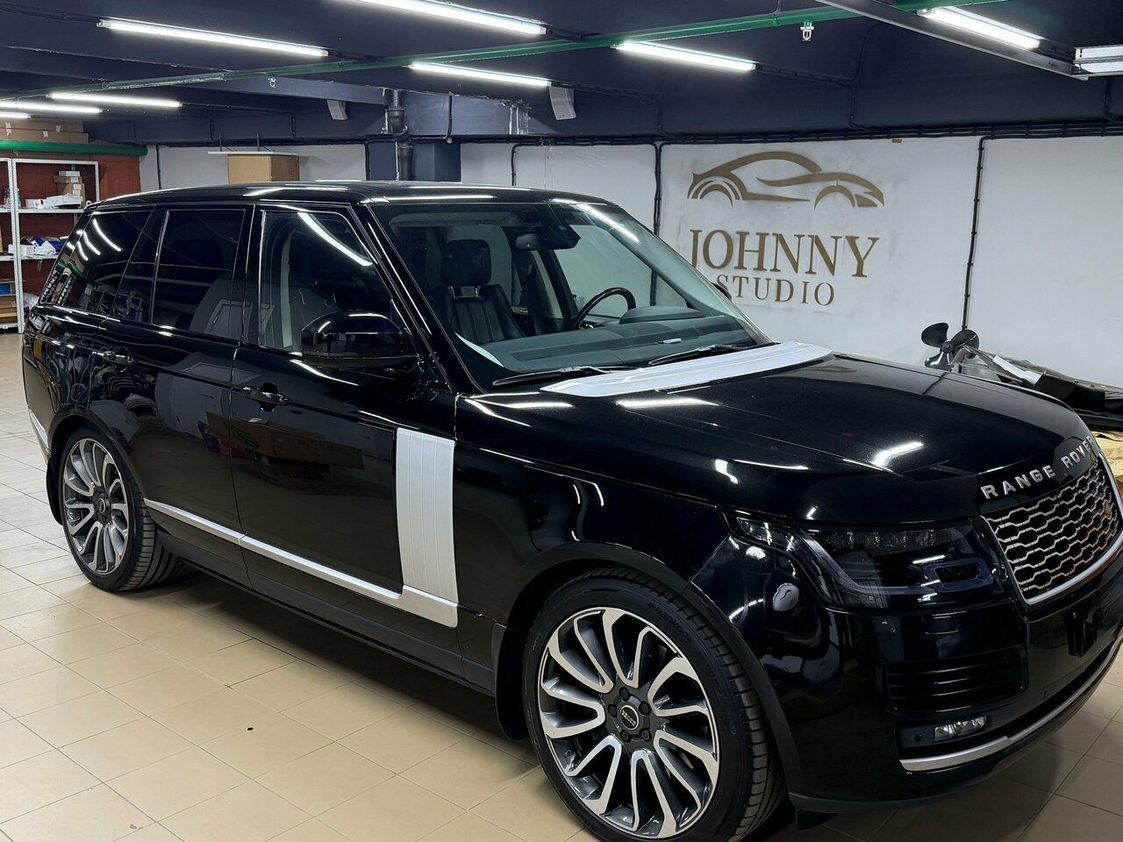
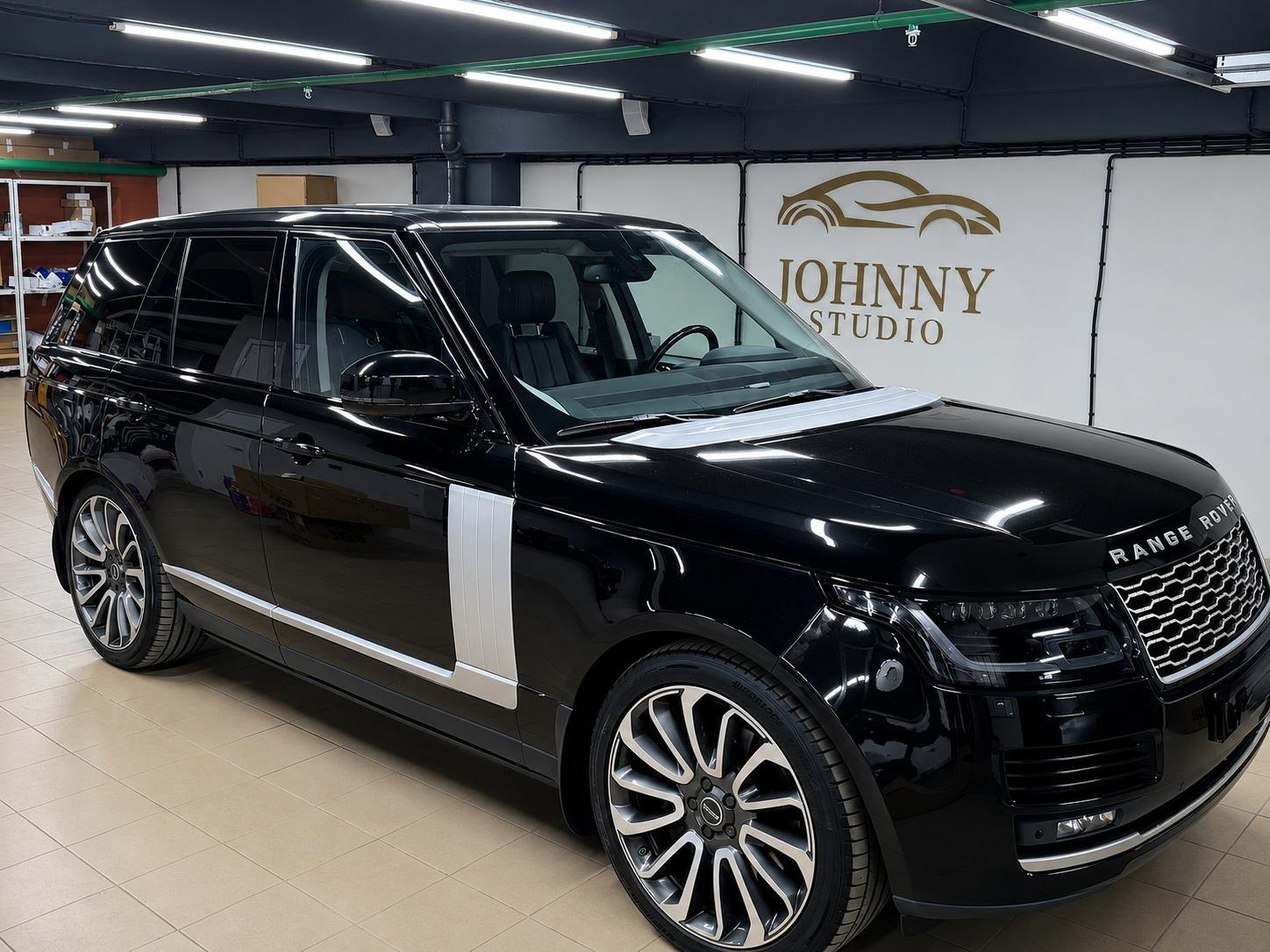
Правки Джони: блок марок под премиум, раздел-переход на сайт детейлинга, новое фото на первом экране

diff --git a/index.html b/index.html
@@ -11,13 +11,13 @@
 <meta property="og:type" content="website">
 <meta property="og:title" content="Johnny Studio: Range Rover и Land Rover знаем наизусть">
 <meta property="og:description" content="Фары, рестайлинг, оклейка, антихром и тонировка. Москва, Тюменский проезд. 5,0 на Яндекс Картах, 72 оценки.">
-<meta property="og:image" content="https://johnny-studio.github.io/img/hero.jpg">
+<meta property="og:image" content="https://johnny-studio.github.io/img/hero.jpg?v=2">
 <meta property="og:url" content="https://johnny-studio.github.io/">
-<link rel="preload" href="img/hero.jpg" as="image">
+<link rel="preload" href="img/hero.jpg?v=2" as="image">
 <link rel="preload" href="fonts/inter-cyrillic.woff2" as="font" type="font/woff2" crossorigin>
 <!-- SEO: карточка студии и вопросы для поиска. Цены тут только точные, с Яндекс Карт -->
 <script type="application/ld+json">
-{"@context":"https://schema.org","@type":"AutoRepair","name":"Johnny Studio","alternateName":"Джони студио","url":"https://johnny-studio.github.io/","image":"https://johnny-studio.github.io/img/hero.jpg","logo":"https://johnny-studio.github.io/img/logo.jpg","telephone":"+7 962 363-42-12","priceRange":"6 000–280 000 ₽",
+{"@context":"https://schema.org","@type":"AutoRepair","name":"Johnny Studio","alternateName":"Джони студио","url":"https://johnny-studio.github.io/","image":"https://johnny-studio.github.io/img/hero.jpg?v=2","logo":"https://johnny-studio.github.io/img/logo.jpg","telephone":"+7 962 363-42-12","priceRange":"6 000–280 000 ₽",
 "address":{"@type":"PostalAddress","streetAddress":"Тюменский проезд, 5, стр. 2","addressLocality":"Москва","addressCountry":"RU"},
 "geo":{"@type":"GeoCoordinates","latitude":55.80955,"longitude":37.740983},
 "openingHoursSpecification":{"@type":"OpeningHoursSpecification","dayOfWeek":["Monday","Tuesday","Wednesday","Thursday","Friday","Saturday","Sunday"],"opens":"10:00","closes":"20:00"},
@@ -31,7 +31,7 @@
 </script>
 <script type="application/ld+json">
 {"@context":"https://schema.org","@type":"FAQPage","mainEntity":[
- {"@type":"Question","name":"Вы работаете только с Range Rover?","acceptedAnswer":{"@type":"Answer","text":"Нет, с любыми марками: Skoda, Volkswagen, BMW, Volvo, Chevrolet и другими. Land Rover знаем особенно хорошо, для них много доработок."}},
+ {"@type":"Question","name":"Вы работаете только с Range Rover?","acceptedAnswer":{"@type":"Answer","text":"Профильно с Range Rover и Land Rover, для них много доработок. Работаем и с другими премиальными машинами: Jaguar, Mini, BMW, Lexus, Porsche, Audi. Детейлинг для любых марок на нашем втором сайте."}},
  {"@type":"Question","name":"Сколько стоит?","acceptedAnswer":{"@type":"Answer","text":"Установка фар на Range Rover L494 и L405 от 6 000 ₽, оклейка зон риска от 60 000 ₽, полная оклейка в цветной полиуретан от 280 000 ₽. Точную цену называем до начала работ."}},
  {"@type":"Question","name":"Сколько времени занимает работа?","acceptedAnswer":{"@type":"Answer","text":"Вмятины часто убираем день в день, полная оклейка занимает от 5 до 10 дней. Срок по остальным работам скажем при записи."}},
  {"@type":"Question","name":"Как можно оплатить?","acceptedAnswer":{"@type":"Answer","text":"Переводом, по QR-коду, картой или наличными."}},
@@ -131,7 +131,7 @@ nav .btn{height:44px;padding:0 20px;font-size:11.5px}
 .hero .r:after{content:"";position:absolute;inset:0;pointer-events:none;background:linear-gradient(90deg,rgba(11,11,12,.6),transparent 24%),linear-gradient(0deg,rgba(11,11,12,.65),transparent 32%)}
 .hero .cap{position:absolute;z-index:2;right:28px;bottom:26px;font:600 11px/1 var(--body);letter-spacing:.3em;text-transform:uppercase;color:rgba(255,255,255,.72)}
 /* ЭФФЕКТ ФАР: фара дважды моргает, потом по фото проходит луч. Только transform и opacity */
-.hl{position:absolute;left:76%;top:65%;width:36%;aspect-ratio:2/1;transform:translate(-50%,-50%) scale(.85);opacity:0;mix-blend-mode:screen;pointer-events:none;
+.hl{position:absolute;left:79%;top:66%;width:36%;aspect-ratio:2/1;transform:translate(-50%,-50%) scale(.85);opacity:0;mix-blend-mode:screen;pointer-events:none;
  background:radial-gradient(closest-side,rgba(255,252,245,.95),rgba(255,214,170,.5) 38%,rgba(var(--acc-rgb),.12) 62%,transparent 75%)}
 .hl:after{content:"";position:absolute;left:-60%;right:-60%;top:47%;height:6%;background:linear-gradient(90deg,transparent,rgba(255,240,225,.8) 45%,#fff 50%,rgba(255,240,225,.8) 55%,transparent)}
 .beam{position:absolute;top:-25%;bottom:-25%;left:0;width:34%;opacity:0;mix-blend-mode:screen;pointer-events:none;transform:translateX(-130%) skewX(-16deg);
@@ -152,6 +152,16 @@ nav .btn{height:44px;padding:0 20px;font-size:11.5px}
 .lr small{font:600 11px/1 var(--body);letter-spacing:.3em;text-transform:uppercase;color:var(--acc)}
 .lr h3{font:800 clamp(22px,2.2vw,32px)/1.02 var(--head);text-transform:uppercase;letter-spacing:-.02em;margin:16px 0 18px}
 .lr ul{list-style:none;display:grid;gap:8px;color:var(--tx2);font-size:15px}.lr li{display:flex;gap:10px}.lr li:before{content:"";width:6px;height:6px;margin-top:9px;flex-shrink:0;background:var(--acc)}
+/* ВТОРОЕ НАПРАВЛЕНИЕ: детейлинг */
+.dtl{display:grid;grid-template-columns:.9fr 1.1fr;gap:clamp(30px,5vw,80px);align-items:center;background:var(--bg2);border-block:1px solid var(--line)}
+.dtl p{margin:26px 0 34px;color:var(--tx2);max-width:460px}
+.dtl-g{display:grid;grid-template-columns:1.2fr 1fr;grid-template-rows:1fr 1fr;gap:10px;aspect-ratio:5/4}
+.dtl-g figure{position:relative;overflow:hidden;background:var(--bg3)}
+.dtl-g figure:first-child{grid-row:span 2}
+.dtl-g img{width:100%;height:100%;object-fit:cover;transition:transform 1.2s var(--ease)}
+.dtl-g:hover img{transform:scale(1.05)}
+.dtl-g figcaption{position:absolute;left:12px;bottom:12px;padding:8px 12px;background:rgba(11,11,12,.78);font:600 11px/1 var(--body);letter-spacing:.2em;text-transform:uppercase}
+@media(max-width:900px){.dtl{grid-template-columns:1fr}.dtl-g{aspect-ratio:4/3.6}}
 .oth{display:flex;flex-wrap:wrap;gap:10px;align-items:center;margin-top:30px}
 .oth b{font:600 12px/1 var(--body);letter-spacing:.2em;text-transform:uppercase;color:var(--mut);margin-right:8px}
 .oth span{border:1px solid var(--line);padding:10px 16px;font:600 12px/1 var(--body);letter-spacing:.12em;text-transform:uppercase;color:var(--tx2)}
@@ -423,7 +433,7 @@ html.lock{overflow:hidden}
 <body>
 <!-- 14. шапка -->
 <nav id="nav"><a href="#top" class="logo"><img src="img/logo.jpg" alt="" width="42" height="42">JOHNNY <span>STUDIO</span></a>
- <div class="links"><a href="#brands">Range Rover</a><a href="#services">Услуги и цены</a><a href="#works">Работы</a><a href="#reviews">Отзывы</a><a href="#contacts">Контакты</a></div>
+ <div class="links"><a href="#brands">Range Rover</a><a href="#services">Услуги и цены</a><a href="#works">Работы</a><a href="#reviews">Отзывы</a><a href="#detailing">Детейлинг</a><a href="#contacts">Контакты</a></div>
  <a class="btn a" href="#book" data-book>Записаться</a></nav>
 
 <!-- 15. первый экран: главное Range Rover и Land Rover -->
@@ -434,7 +444,7 @@ html.lock{overflow:hidden}
   <div class="cta fx"><a class="btn" href="#calc">Рассчитать цену</a><a class="btn o" href="#book" data-book>Записаться</a></div>
   <div class="facts fx"><div><b>5,0 <i>★</i></b><small>72 оценки на Картах</small></div><div><b>10–20</b><small>работаем</small></div><div><b>Тюменский пр.</b><small>5, стр. 2, парковка</small></div></div>
  </div>
- <div class="r"><div class="stage"><img src="img/hero.jpg" alt="Чёрный Range Rover в боксе Johnny Studio" width="1280" height="960" fetchpriority="high"><span class="hl" aria-hidden="true"></span></div><span class="beam" aria-hidden="true"></span><div class="cap">Range Rover в боксе студии</div></div>
+ <div class="r"><div class="stage"><img src="img/hero.jpg?v=2" alt="Чёрный Range Rover у стены с логотипом Johnny Studio" width="1448" height="1086" fetchpriority="high"><span class="hl" aria-hidden="true"></span></div><span class="beam" aria-hidden="true"></span><div class="cap">Range Rover в боксе студии</div></div>
 </header>
 
 <main>
@@ -443,11 +453,11 @@ html.lock{overflow:hidden}
  <div class="bh"><div><div class="k" data-r>Специализация</div><h2>С чем работаем<br><em>чаще всего</em></h2></div>
   <p data-r>В боксе обычно стоит несколько Range Rover, поэтому можно <em>наглядно посмотреть, как будет выглядеть ваша машина.</em></p></div>
  <div class="lr">
-  <article data-r><small>L405 · Vogue</small><h3>Range Rover</h3><ul><li>Фары и фонари в стиле рестайлинга</li><li>Решётка, зеркала, шильдики</li><li>Мультимедиа, климат, руль с кнопками</li></ul></article>
-  <article data-r><small>L494</small><h3>Range Rover Sport</h3><ul><li>Фары в стиле рестайлинга</li><li>Динамические поворотники</li><li>Камеры, доводчики, салон</li></ul></article>
-  <article data-r><small>Любые модели</small><h3>Land Rover</h3><ul><li>Оклейка полиуретаном</li><li>Антихром и тонировка</li><li>Поправим недочёты за другими мастерами</li></ul></article>
+  <article data-r><small>L405 · Vogue</small><h3>Range Rover</h3><ul><li>Фары и фонари в стиле рестайлинга</li><li>Решётка, шильдики, зеркала</li><li>Динамические поворотники</li><li>Мультимедиа, климат, кнопки руля и стеклоподъёмников</li></ul></article>
+  <article data-r><small>L494 Sport</small><h3>Range Rover Sport</h3><ul><li>Фары в стиле рестайлинга</li><li>Динамические поворотники</li><li>Камеры, доводчики, салон</li></ul></article>
+  <article data-r><small>Премиум</small><h3>Другие премиальные модели авто</h3><ul><li>Оклейка цветным и прозрачным полиуретаном с полным разбором и без использования праймера</li><li>Тонировка</li><li>Поправим недочёты за другими мастерами</li></ul></article>
  </div>
- <div class="oth" data-r><b>И другие марки</b><span>Skoda</span><span>Volkswagen</span><span>BMW</span><span>Volvo</span><span>Chevrolet</span><span>Lexus</span><span>Porsche</span><span>Hyundai</span></div>
+ <div class="oth" data-r><b>И другие премиальные марки</b><span>Jaguar</span><span>Mini</span><span>BMW</span><span>Lexus</span><span>Porsche</span><span>Audi</span></div>
 </section>
 
 <!-- 22. калькулятор -->
@@ -467,7 +477,7 @@ html.lock{overflow:hidden}
 <!-- 17. услуги гармошкой. ≈ = ориентир, Джони пока не прислал цену -->
 <section id="services"><div class="k" data-r>Услуги</div><h2>Услуги<br><em>и цены</em></h2>
  <div class="pan">
-  <article class="p on"><img src="img/s-light.jpg" alt="" loading="lazy" style="object-position:50% 72%"><span class="n">01</span><span class="vt">Свет</span><div class="bd"><h3>Фары и фонари</h3><p>Ставим фары и фонари, часто сразу закрываем их плёнкой. Range Rover, Skoda, Volkswagen, Chevrolet и другие.</p>
+  <article class="p on"><img src="img/s-light.jpg" alt="" loading="lazy" style="object-position:50% 72%"><span class="n">01</span><span class="vt">Свет</span><div class="bd"><h3>Фары и фонари</h3><p>Ставим фары и фонари, часто сразу закрываем их плёнкой. Range Rover, Land Rover и другие премиальные марки.</p>
    <div class="row">Фары на Range Rover L494 и L405<b>6 000 ₽</b></div><div class="row">Бронь фар полиуретаном<b class="o">4 000 ₽</b></div><div class="row">Фонари в стиле рестайлинга<b class="f">по фото</b></div><div class="row">Фары на другие марки<b class="f">по фото</b></div>
    <a class="more" href="#book" data-book data-msg="Здравствуйте! Я с сайта, интересуют фары. Моя машина: ">Узнать цену для своей машины</a></div></article>
   <article class="p"><img src="img/s-wrap.jpg" alt="" loading="lazy"><span class="n">02</span><span class="vt">Плёнка</span><div class="bd"><h3>Оклейка полиуретаном</h3><p>Защищаем кузов или меняем цвет. Большая палитра плёнок, полная оклейка занимает от 5 до 10 дней.</p>
@@ -527,6 +537,17 @@ html.lock{overflow:hidden}
  <div class="rv-foot" data-r><span>Отзывы с Яндекс Карт, сокращены. Наведите, чтобы остановить.</span><a class="btn o" href="https://yandex.ru/maps/org/152411231869/reviews/" target="_blank" rel="noopener">Все отзывы на Картах</a></div>
 </section>
 
+<!-- ВТОРОЕ НАПРАВЛЕНИЕ: переход на сайт детейлинга любых марок -->
+<section class="dtl" id="detailing">
+ <div class="dtl-t"><div class="k" data-r>Второе направление</div><h2>Детейлинг<br><em>для любых машин</em></h2>
+  <p data-r>Полировка и керамика, вмятины без покраски, химчистка салона, плёнки, фары и диски. Тот же бокс и та же команда, все работы на отдельном сайте.</p>
+  <a class="btn a" href="https://denis-sites.github.io/johnny-detailing/" data-r>Сайт детейлинга <svg viewBox="0 0 24 24" fill="none" stroke="currentColor" stroke-width="2"><path d="M7 17 17 7M8 7h9v9"/></svg></a></div>
+ <a class="dtl-g" href="https://denis-sites.github.io/johnny-detailing/" aria-label="Открыть сайт детейлинга" data-r>
+  <figure><img src="img/dt-lexus.jpg" alt="Lexus RX после полировки" loading="lazy"><figcaption>Полировка</figcaption></figure>
+  <figure><img src="img/dt-gle.jpg" alt="Mercedes GLE в матовом полиуретане" loading="lazy"><figcaption>Плёнка</figcaption></figure>
+  <figure><img src="img/dt-head.jpg" alt="Фара после реставрации" loading="lazy"><figcaption>Фары</figcaption></figure></a>
+</section>
+
 <!-- 19. этапы: таймлайн со светящейся линией -->
 <section class="how" id="how"><div class="side"><div class="k" data-r>Как проходит работа</div><h2>От сообщения<br><em>до выдачи</em></h2>
   <p data-r>Четыре шага, и цену вы знаете до того, как мы начнём. Без сюрпризов в конце.</p></div>
@@ -540,7 +561,7 @@ html.lock{overflow:hidden}
 <!-- 23. вопросы. Ответы продублированы в JSON-LD FAQPage в <head> -->
 <section class="faq" id="faq"><div><div class="k" data-r>Коротко</div><h2>Вопросы<br><em>и ответы</em></h2></div>
  <dl>
-  <div data-r><dt>Вы работаете только с Range Rover?</dt><dd>Нет, с любыми марками: Skoda, Volkswagen, BMW, Volvo, Chevrolet и другими. Land Rover знаем особенно хорошо, для них много доработок.</dd></div>
+  <div data-r><dt>Вы работаете только с Range Rover?</dt><dd>Профильно с Range Rover и Land Rover, для них много доработок. Работаем и с другими премиальными машинами: Jaguar, Mini, BMW, Lexus, Porsche, Audi. Детейлинг для любых марок на нашем втором сайте.</dd></div>
   <div data-r><dt>Сколько стоит?</dt><dd>Фары на Range Rover L494 и L405 от 6 000 ₽, зоны риска от 60 000 ₽, полная оклейка в цвет от 280 000 ₽. Точную цену называем до начала работ.</dd></div>
   <div data-r><dt>Сколько времени занимает работа?</dt><dd>Вмятины часто убираем день в день, полная оклейка занимает от 5 до 10 дней. Срок по остальным работам скажем при записи.</dd></div>
   <div data-r><dt>Как можно оплатить?</dt><dd>Переводом, по QR-коду, картой или наличными.</dd></div>
@@ -569,7 +590,7 @@ html.lock{overflow:hidden}
  </div>
 </section>
 </main>
-<footer class="ft"><span>Johnny Studio · тюнинг и детейлинг · Москва</span><a href="https://yandex.ru/maps/org/152411231869/" target="_blank" rel="noopener">Мы на Яндекс Картах</a></footer>
+<footer class="ft"><span>Johnny Studio · тюнинг и детейлинг · Москва</span><span><a href="https://denis-sites.github.io/johnny-detailing/">Детейлинг любых машин</a> · <a href="https://yandex.ru/maps/org/152411231869/" target="_blank" rel="noopener">Мы на Яндекс Картах</a></span></footer>
 
 <!-- 24. нижняя панель на телефоне -->
 <div class="mbar" id="mbar"><a class="btn a" href="#book" data-book>Записаться</a><a class="btn o" href="#calc">Цена</a><a class="btn o" href="tel:+79623634212" aria-label="Позвонить"><svg viewBox="0 0 24 24" fill="currentColor"><path d="M6.6 10.8a15.1 15.1 0 0 0 6.6 6.6l2.2-2.2c.3-.3.7-.4 1-.2 1.1.4 2.3.6 3.6.6.6 0 1 .4 1 1V20c0 .6-.4 1-1 1A17 17 0 0 1 3 4c0-.6.4-1 1-1h3.5c.6 0 1 .4 1 1 0 1.3.2 2.5.6 3.6.1.3 0 .7-.2 1z"/></svg></a></div>
@@ -677,12 +698,8 @@ const REV=[
  ['Роман М.','Тонировка, BMW E39','Боковые передние в атермалку и заднюю полусферу в пятёрку. Полусферу кстати Люмаром настоящим оклеили, что очень приятно!'],
  ['Руслан А.','Салон Range Rover','Приезжаю второй раз и однозначно приеду ещё. В первый раз делали рестайлинг салона, климат, мультимедиа, работа сделана на высшем уровне.'],
  ['Василий С.','Range Rover Sport','Делал фары и переднюю решётку на Range Rover Sport, плюс зеркала и прочие мелочи. Тачка преобразилась. Вышло сочно!'],
- ['Ангира Г.','Skoda Octavia','Устанавливал фары на Шкода Октавия. Попутно ещё поменял шильдики на чёрные, забронировал фары в плёнку и сделал антихром решётки.'],
  ['Елизавета С.','Вмятины без покраски','Всё на высшем уровне! Три вмятины убрали, всё очень быстро, день в день за пару часов, нет следов, мы очень довольны!'],
- ['Ara P.','Фары, Golf 6','Приехал на установку фар на Гольф 6. В течение часа всё установили и подключили. Также предложили оклеить фары в плёнку.'],
  ['Андрей Ч.','Johnny Studio','Отличное место, Евгению можно доверить что угодно и не задумываться, халтуры точно не будет!'],
- ['Никита Л.','Химчистка, Santa Fe','Делал химчистку на Санта-Фе 2014 года, сделали в идеал, как будто с салона новую машину забрал. Всё быстро и качественно!'],
- ['Дмитрий М.','Фары, Chevrolet Cruze','Всё сделали чётко, быстро и недорого! Так понравился результат, что решил сразу и плёночкой покрыть!'],
  ['SVZ','Камеры','Обращался за установкой камер переднего и заднего вида с выводом на экран. Сделали отлично! Очень грамотный и приятный в общении персонал.'],
  ['Василий К.','Полировка','Мастер своего дела на 100%: чётко, красиво, самое главное дотошно до каждой мелочи! Лучшая полировка, какую я видел!'],
  ['Ал К.','Range Rover','Быстро, качественно и аккуратно! Всё установили и также предложили динамические поворотники! Кто на Ренджах, всем сюда!'],
